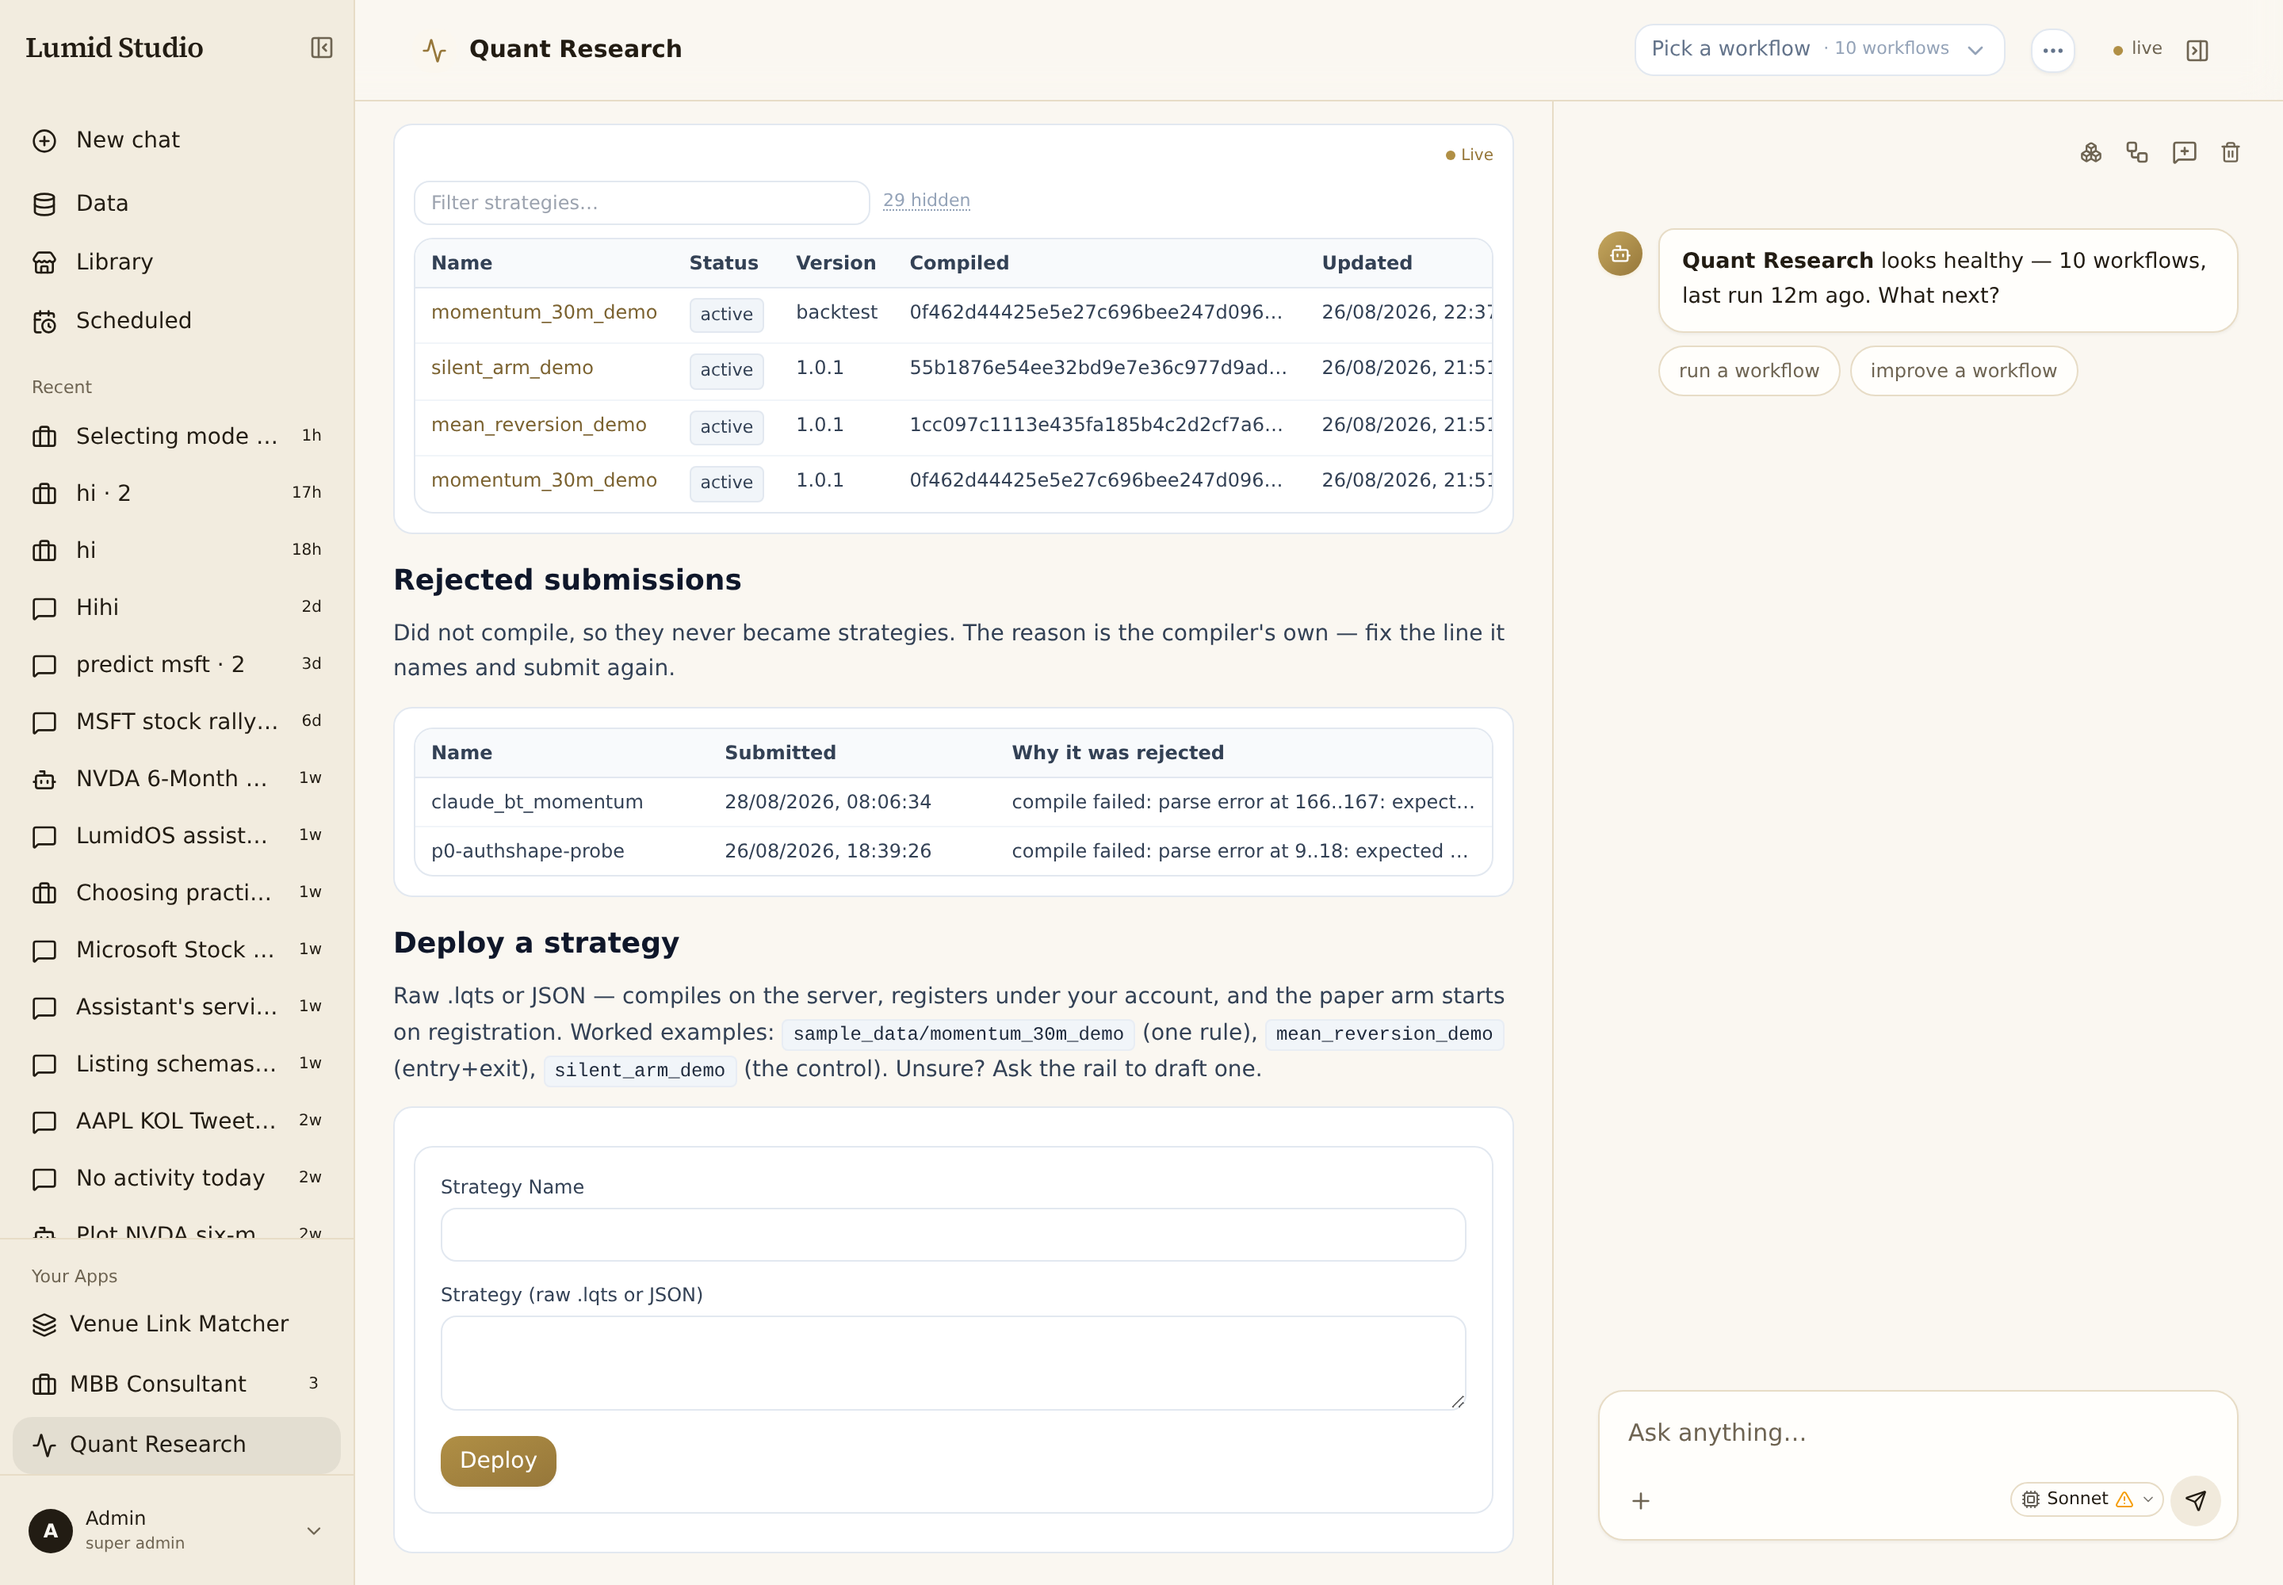
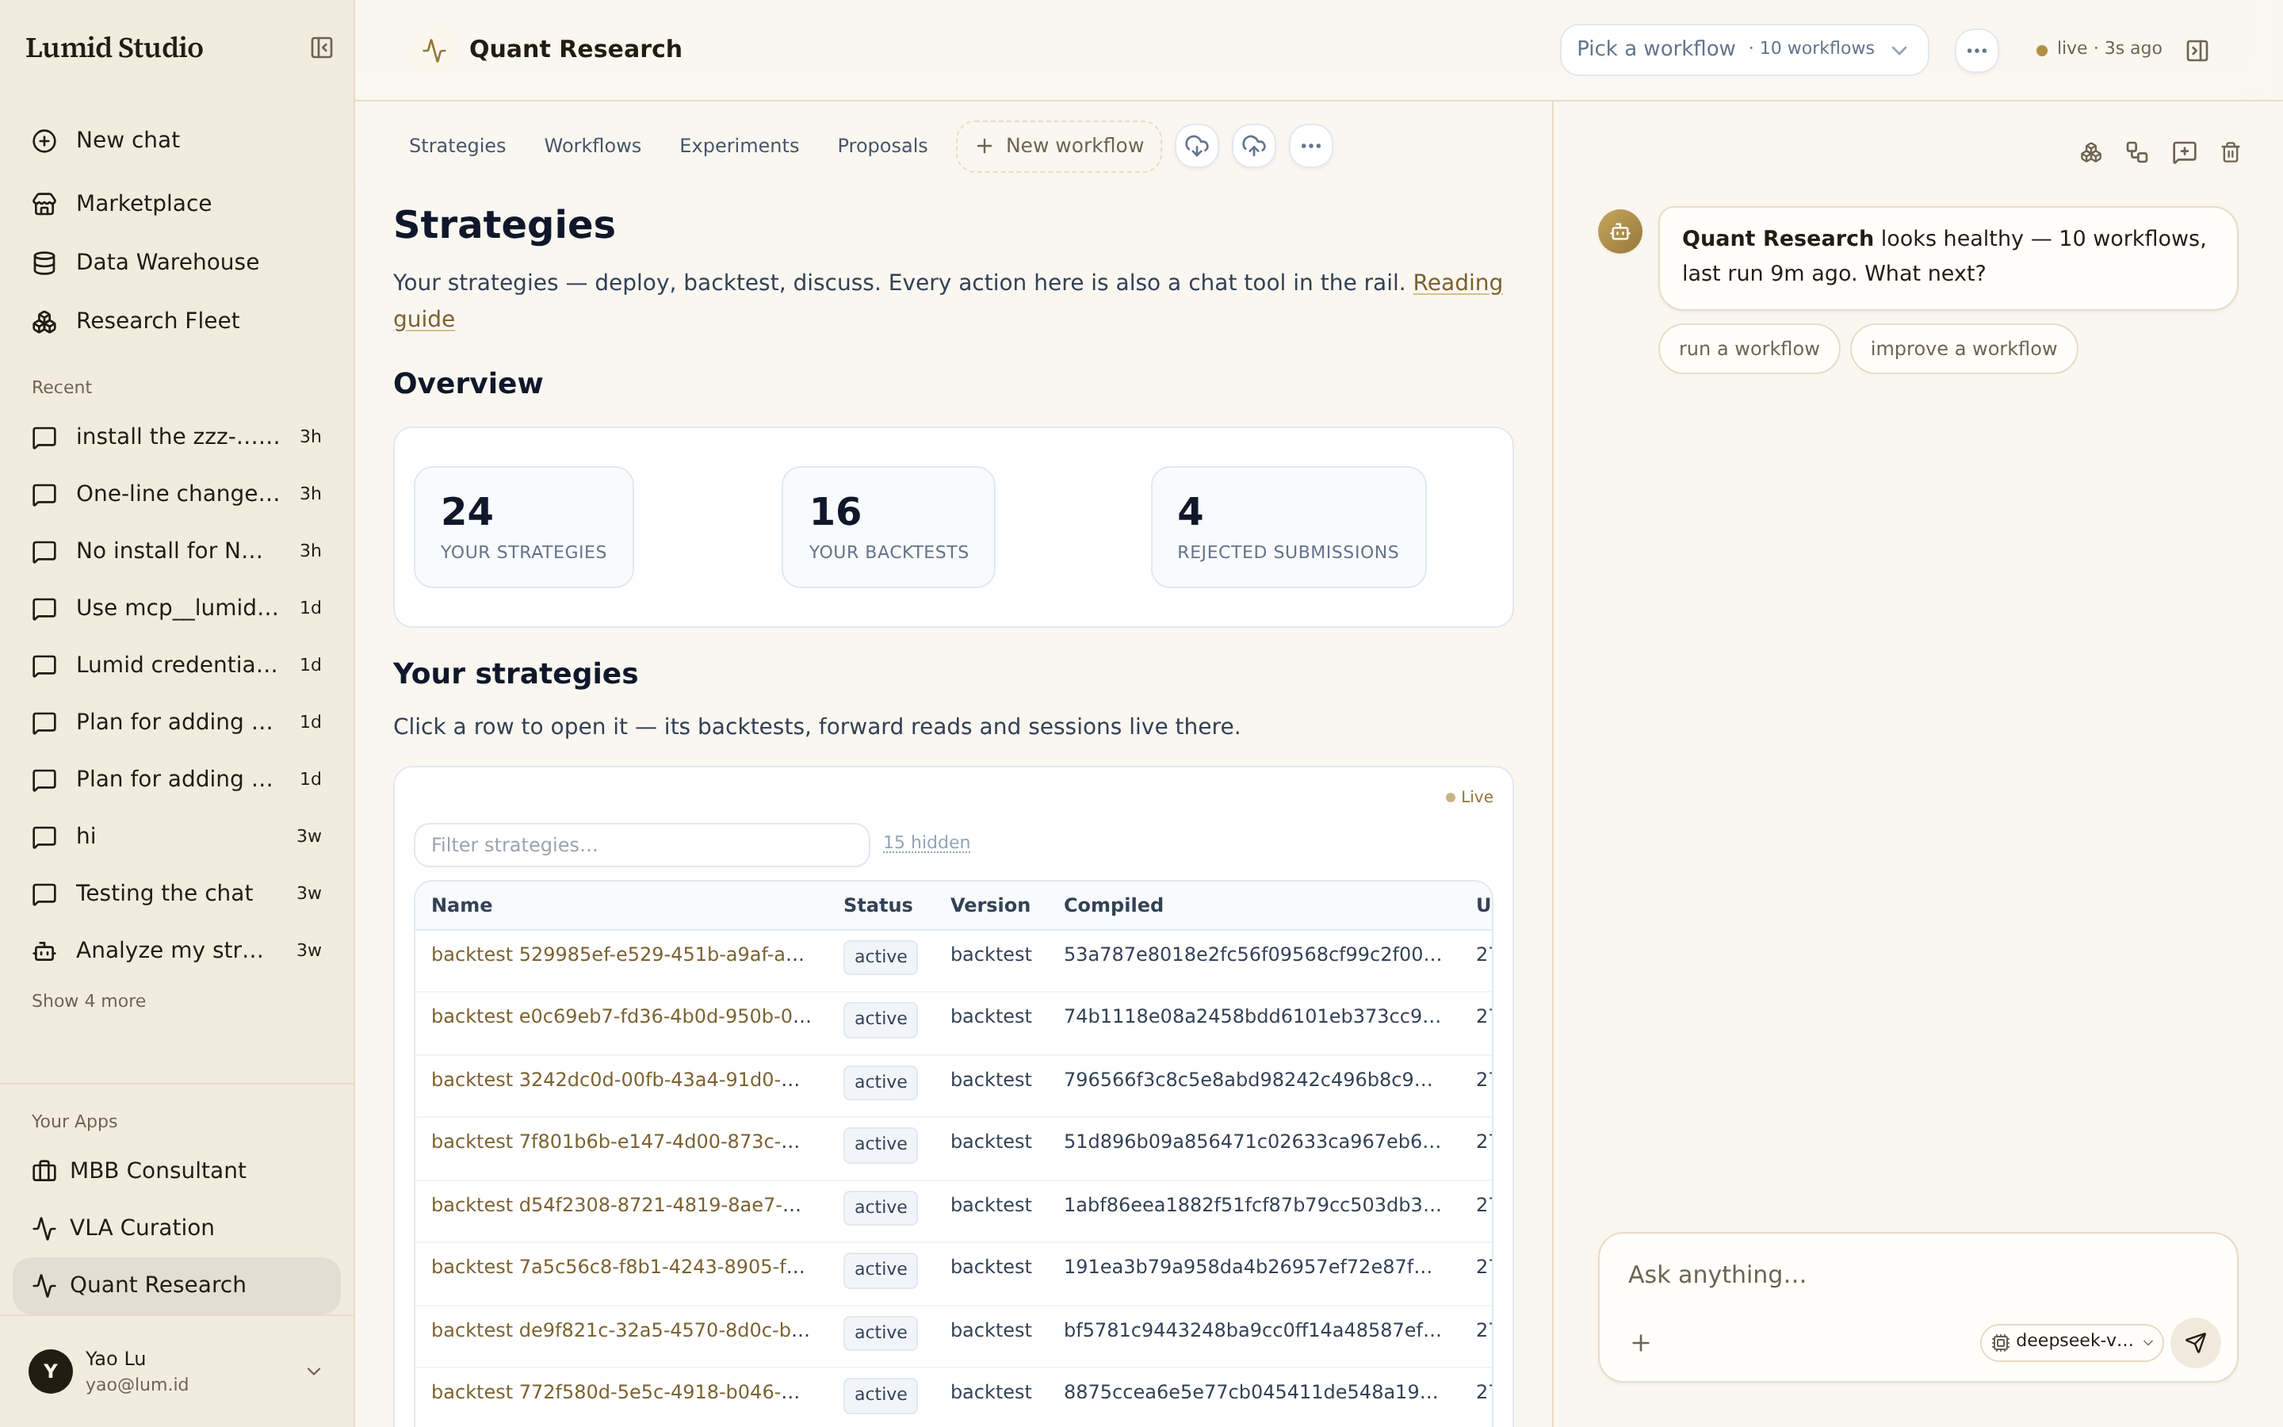
docs: reshoot the stale app screenshot, and show the arm switcher
Two images, chosen by what actually went stale rather than by re-shooting all
25.

first-run-strategies-2.png predated the app's tab bar entirely: it showed the
Quant Research page with no tabs at all, while the text beside it now says four
(Strategies, Workflows, Experiments, Proposals). A reader comparing the two
would have trusted the picture. Reshot with the tabs visible and the overview
populated.

workflows-panel-arms.png is new. The arm switcher, the per-arm worker
placement and the job-phase strip shipped today with no image anywhere, and
they are the part of the page hardest to picture from prose. Captured against
a real completed office job so it shows the feature WORKING — the first
capture used synthetic job ids, which render a red "compute service returned
404" and would have illustrated the error path as if it were the norm.

experiments-surface.png was deliberately NOT replaced. It already shows the
three-tab layout the corrected text describes, with real data behind it — 78
results, criteria met, +20.4pp. The fresh capture of the same surface on this
account showed "0 results" for every experiment, which is current but tells a
reader nothing. Newer is not the same as better.

Checked: 26 image references across all pages, 0 missing; and every image on
the Admin+ page still carries the `lumilake-flowmesh-` prefix its nginx gate
keys on, so nothing new is served to a non-admin.

diff --git a/public/docs/workflows.md b/public/docs/workflows.md
@@ -135,6 +135,27 @@ Open a workflow row to see what a run produced.
 - **Run tree** — each run as a node with its score and delta. `NOT SCORED` is a
   real state, not a gap.
 
+### Reading a run's arms on the canvas
+
+When a run fanned out, the workflow panel offers one chip per arm above the
+graph. The chip names the **arm** and where it landed — `baseline · 2 workers`,
+`variant · w-5090-3` — and picking one re-points the status and the phase strip
+at that arm's job, so what you are reading always matches what is selected.
+
+![The workflow panel drawing one arm of a two-arm run: the arm chips with their
+worker placement, the job's status, and the five job-level lifecycle
+phases](/docs/img/workflows-panel-arms.png)
+
+Two details that are deliberate rather than cosmetic. The chips appear **only**
+when there is more than one job — a chooser that never has a second option is
+noise. And `· split across sites` shows only when the arms really are split,
+because that is the case where a latency difference is the fleet rather than
+the arm.
+
+The strip below them is labelled **job phases** for a reason: those five are
+the job's lifecycle, not your graph's ops. See *There is no per-op state to
+read*, below.
+
 ### Reading a run's arms over the API
 
 The run tree shows this tenant's runs. The arms of a single **compute** run —
